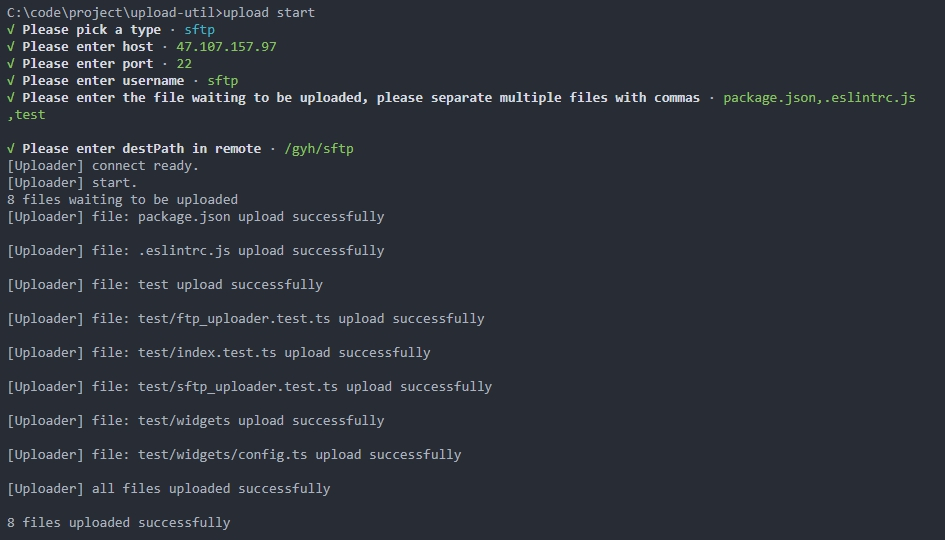
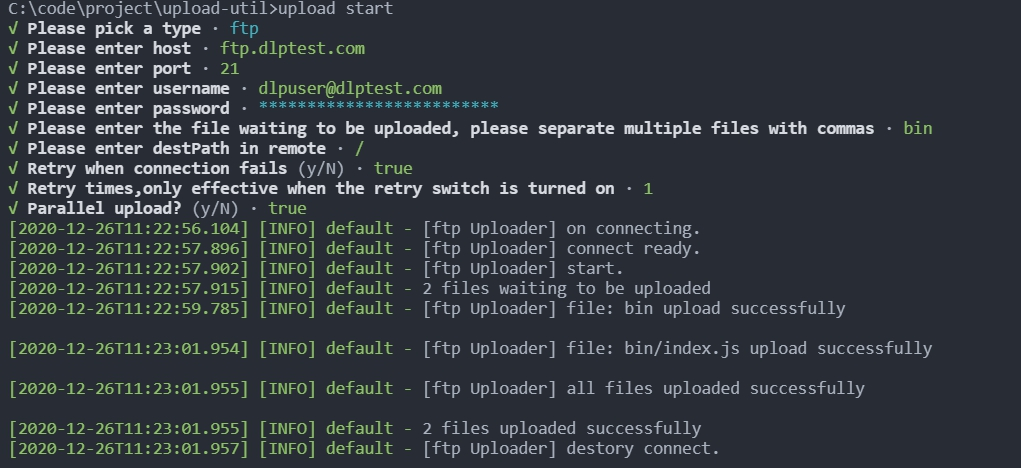
feat: 代码优化

diff --git a/test/ftp_uploader.test.ts b/test/ftp_uploader.test.ts
@@ -1,5 +1,10 @@
 import { FtpUploader } from '../src/ftp_uploader';
-import { ftpConfig, retryFtpConfig, errorConfig } from './widgets/config';
+import {
+  ftpConfig,
+  retryFtpConfig,
+  paramsErrorConfig,
+  connectErrorConfig
+} from './widgets/config';
 
 describe('Uploader Ftp', () => {
   test('run uploader', async (done) => {
@@ -8,17 +13,38 @@ describe('Uploader Ftp', () => {
 
     uploader.on('upload:ready', mockFn);
     uploader.on('upload:start', mockFn);
+    uploader.on('upload:connecting', mockFn);
     uploader.on('upload:success', () => {
       mockFn();
       uploader.destory();
     });
     uploader.on('upload:destroy', () =>
-      expect(mockFn.mock.calls.length).toBe(3)
+      expect(mockFn.mock.calls.length).toBe(4)
     );
 
     await expect(uploader.connect()).resolves.toBeUndefined();
     await expect(uploader.startUpload()).resolves.toBeUndefined();
 
+    done();
+  });
+  test('upload a not exist file/dir', async (done) => {
+    const uploader = new FtpUploader({
+      ...ftpConfig,
+      files: ['not_exist_file.txt', 'not_exist_dir']
+    });
+
+    await uploader.connect();
+    await expect(uploader.startUpload()).resolves.toBeUndefined();
+    uploader.destory();
+
+    done();
+  });
+
+  test('ftp connect error', async (done) => {
+    const uploader = new FtpUploader(connectErrorConfig);
+
+    await expect(uploader.connect()).rejects.toThrow();
+    uploader.destory();
     done();
   });
 
@@ -37,8 +63,26 @@ describe('Uploader Ftp', () => {
 
   test('ftp options params error', (done) => {
     expect(() => {
-      new FtpUploader(errorConfig);
+      new FtpUploader(paramsErrorConfig);
     }).toThrow();
+    done();
+  });
+
+  test('ftp destory', async (done) => {
+    const uploader = new FtpUploader({
+      ...ftpConfig,
+      files: []
+    });
+    const mockFn = jest.fn(() => {});
+
+    uploader.on('upload:destroy', mockFn);
+    await uploader.connect();
+    await uploader.startUpload();
+
+    uploader.destory();
+
+    expect(mockFn).toHaveBeenCalled();
+
     done();
   });
 });

diff --git a/test/widgets/config.ts b/test/widgets/config.ts
@@ -1,6 +1,6 @@
 import { Options, Config } from '../../src/interface/interface';
 
-const ftpConfig: Options = {
+export const ftpConfig: Options = {
   host: 'ftp.dlptest.com',
   port: 21,
   user: 'dlpuser@dlptest.com',
@@ -11,7 +11,7 @@ const ftpConfig: Options = {
   retry: true
 };
 
-const retryFtpConfig: Options = {
+export const retryFtpConfig: Options = {
   host: '192.168.0.0', // error host
   port: 21,
   user: '',
@@ -23,12 +23,23 @@ const retryFtpConfig: Options = {
   retryTimes: 1
 };
 
-const errorConfig: any = {
+export const paramsErrorConfig: any = {
   host: '192.168.0.0',
   port: 21
 };
 
-const sftpConfig: Options = {
+export const connectErrorConfig: any = {
+  host: 'ftp.dlptest.com1',
+  port: 21,
+  user: 'dlpuser@dlptest.com',
+  password: 'eUj8GeW55SvYaswqUyDSm5v6N',
+  files: ['test', 'package.json'],
+  destRootPath: '/',
+  parallel: true,
+  retry: false
+}
+
+export const sftpConfig: Options = {
   host: '47.56.223.228',
   port: 22,
   user: 'root',
@@ -37,7 +48,7 @@ const sftpConfig: Options = {
   destRootPath: '/gyh/sftp'
 };
 
-const retrySftpConfig: Options = {
+export const retrySftpConfig: Options = {
   host: '47.56.223.111',
   port: 22,
   user: 'root',
@@ -48,7 +59,7 @@ const retrySftpConfig: Options = {
   retryTimes: 1
 };
 
-const config: Config = {
+export const config: Config = {
   ftp: {
     ...ftpConfig,
     files: ['package.json']
@@ -57,13 +68,4 @@ const config: Config = {
     ...sftpConfig,
     files: ['package.json']
   }
-};
-
-export {
-  config,
-  ftpConfig,
-  retryFtpConfig,
-  sftpConfig,
-  retrySftpConfig,
-  errorConfig
 };

diff --git a/bin/index.js b/bin/index.js
@@ -40,23 +40,43 @@ commander
         {
           type: 'input',
           name: 'files',
-          message: 'Please enter the file waiting to be uploaded, please separate multiple files with commas'
+          message:
+            'Please enter the file waiting to be uploaded, please separate multiple files with commas'
         },
         {
           type: 'input',
           name: 'destRootPath',
           message: 'Please enter destPath in remote'
+        },
+        {
+          type: 'confirm',
+          name: 'retry',
+          message: 'Retry when connection fails'
+        },
+        {
+          type: 'input',
+          name: 'retryTimes',
+          message:
+            'Retry times,only effective when the retry switch is turned on'
+        },
+        {
+          type: 'confirm',
+          name: 'parallel',
+          message: 'Parallel upload?'
         }
       ]);
 
       const getUploadOpitons = (response) => ({
         host: response.host,
         user: response.user,
-        port: response.port,
+        port: Number(response.port),
         user: response.user,
         password: response.password,
         files: response.files.split(','),
-        destRootPath: response.destRootPath
+        destRootPath: response.destRootPath,
+        parallel: response.parallel,
+        retry: response.retry,
+        retryTimes: Number(response.retryTimes)
       });
 
       if (response.type === 'sftp') {

diff --git a/test/sftp_uploader.test.ts b/test/sftp_uploader.test.ts
@@ -1,5 +1,5 @@
 import { SftpUploader } from '../src/sftp_uploader';
-import { sftpConfig, retrySftpConfig, errorConfig } from './widgets/config';
+import { sftpConfig, retrySftpConfig, paramsErrorConfig } from './widgets/config';
 
 describe('Uploader Sftp', () => {
   test('run uploader', async (done) => {
@@ -8,12 +8,13 @@ describe('Uploader Sftp', () => {
 
     uploader.on('upload:ready', mockFn);
     uploader.on('upload:start', mockFn);
+    uploader.on('upload:connecting', mockFn);
     uploader.on('upload:success', () => {
       mockFn();
       uploader.destory();
     });
     uploader.on('upload:destroy', () =>
-      expect(mockFn.mock.calls.length).toBe(3)
+      expect(mockFn.mock.calls.length).toBe(4)
     );
 
     await expect(uploader.connect()).resolves.toBeUndefined();
@@ -37,7 +38,7 @@ describe('Uploader Sftp', () => {
 
   test('sftp options params error', (done) => {
     expect(() => {
-      new SftpUploader(errorConfig);
+      new SftpUploader(paramsErrorConfig);
     }).toThrow();
     done();
   });

diff --git a/src/base_uploader.ts b/src/base_uploader.ts
@@ -29,7 +29,7 @@ export abstract class BaseUploader extends EventEmitter {
 
   protected abstract connectFn(): Promise<any>;
 
-  protected abstract upload(filePath: string): Promise<any>;
+  public abstract upload(filePath: string): Promise<any>;
 
   public async connect(): Promise<void> {
     const retryTimes = this.options.retry ? this.options.retryTimes || 3 : 0;
@@ -88,7 +88,7 @@ export abstract class BaseUploader extends EventEmitter {
   }
 
   public async startUpload(): Promise<void> {
-    const parsedFiles = parseFiles(this.options.files);
+    const parsedFiles = parseFiles(this.options.files || []);
     const serialOrParallelUpload = this.options.parallel
       ? this.parallelUpload.bind(this, parsedFiles)
       : this.serialUpload.bind(this, parsedFiles);

diff --git a/src/index.ts b/src/index.ts
@@ -24,13 +24,11 @@ const uploadFactory = (constructor, options: Options): Uploader => {
 
 export const run = async (config: Config): Promise<void> => {
   const uploaderRunner = new UploaderRunner();
-  if (config.ftp) {
+  config.ftp &&
     uploaderRunner.register('ftp', uploadFactory(FtpUploader, config.ftp));
-  }
 
-  if (config.sftp) {
+  config.sftp &&
     uploaderRunner.register('sftp', uploadFactory(SftpUploader, config.sftp));
-  }
 
   try {
     return uploaderRunner.start();

diff --git a/src/sftp_uploader.ts b/src/sftp_uploader.ts
@@ -44,7 +44,7 @@ export class SftpUploader extends BaseUploader {
    * 上传单个文件/目录到目标服务器
    * @param filePath file path
    */
-  protected upload(filePath: string): Promise<string> {
+  public upload(filePath: string): Promise<string> {
     const { mkdir, put } = this.client;
     const localPath = getOriginPath(filePath, this.options.rootPath);
     const destPath = getDestPath(filePath, this.options.destRootPath);

diff --git a/src/ftp_uploader.ts b/src/ftp_uploader.ts
@@ -53,7 +53,7 @@ export class FtpUploader extends BaseUploader {
    * 上传单个文件/目录到目标服务器
    * @param filePath file path
    */
-  protected upload(filePath: string): Promise<string> {
+  public upload(filePath: string): Promise<string> {
     const { mkdir, put } = this.client;
     const localPath = getOriginPath(filePath, this.options.rootPath);
     const destPath = getDestPath(filePath, this.options.destRootPath);

diff --git a/src/widgets/valid.ts b/src/widgets/valid.ts
@@ -64,5 +64,5 @@ export const optionsSchema: Schema = {
       type: 'integer'
     }
   },
-  required: ['host', 'port', 'user', 'password', 'files', 'destRootPath']
+  required: ['host', 'port', 'user', 'password', 'destRootPath']
 };

diff --git a/src/interface/interface.ts b/src/interface/interface.ts
@@ -3,7 +3,7 @@ export interface Options {
   port: number;
   user: string;
   password: string;
-  files: string[];
+  files?: string[];
   destRootPath: string;
   rootPath?: string;
   parallel?: boolean;

diff --git a/README.md b/README.md
@@ -40,6 +40,39 @@ run({
 })
 ```
 
+or like this
+
+```ts
+import { FtpUploader } from 'node-upload-util/ftp_uploader';
+import * as glob from 'glob';
+
+const start = async () => {
+  const uploader = new FtpUploader({
+    host: 'ftp.dlptest.com',
+    port: 21,
+    user: 'dlpuser@dlptest.com',
+    password: 'eUj8GeW55SvYaswqUyDSm5v6N',
+    destRootPath: '/'
+  });
+
+  uploader.on('upload:ready', () => console.log('connect ready'))
+  uploader.on('upload:destory', () => console.log('destoryed'))
+
+  const files = glob.sync('test');
+  await uploader.connect();
+
+  for (const filePath of files) {
+    await uploader
+      .upload(filePath)
+      .then(() => console.log(`${filePath} uploaded success`));
+  }
+
+  uploader.destory();
+};
+
+start();
+```
+
 ## API
 
 ```ts
@@ -48,7 +81,7 @@ export interface Options {
   port: number;
   user: string;
   password: string;
-  files: string[];
+  files?: string[];
   destRootPath: string;
   rootPath?: string;
   parallel?: boolean;
@@ -56,7 +89,15 @@ export interface Options {
   retryTimes?: number;
 }
 ```
-
+|事件名|功能|参数|
+|---|---|---|
+|`upload:connecting`|服务器连接中|无|
+|`upload:ready`|连接服务器成功|无|
+|`upload:start`|调用上传接口触发|`options`:用户配置，`files`: 上传文件列表|
+|`upload:file`|单个文件、目录上传成功触发|`options`:用户配置,`files`: 上传文件列表, `filePath`:成功上传的文件、目录本地路径|
+|`upload:success`|所有文件上传成功时触发|`options`:用户配置，`files`: 上传文件列表|
+|`upload:failure`|所有文件上传失败时触发|`options`:用户配置，`e`:错误信息|
+|`upload:destroy`|销毁时触发|无|
 ## Dev
 
 ```bash
